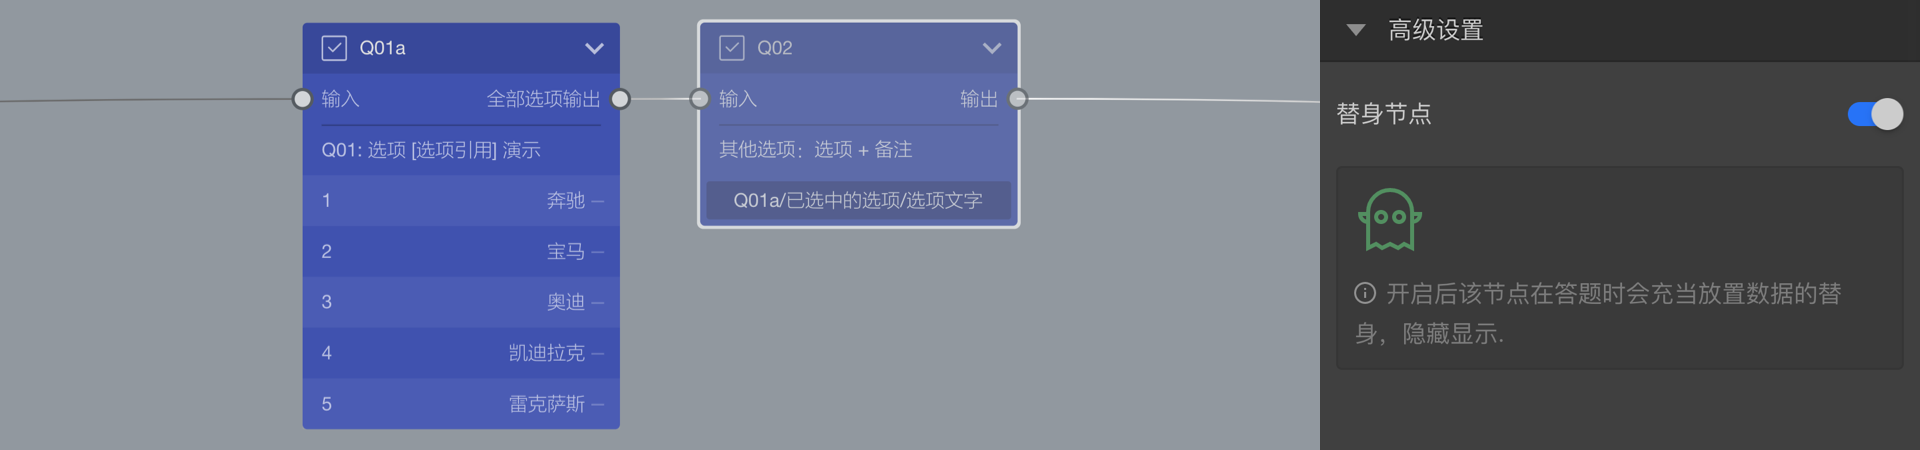
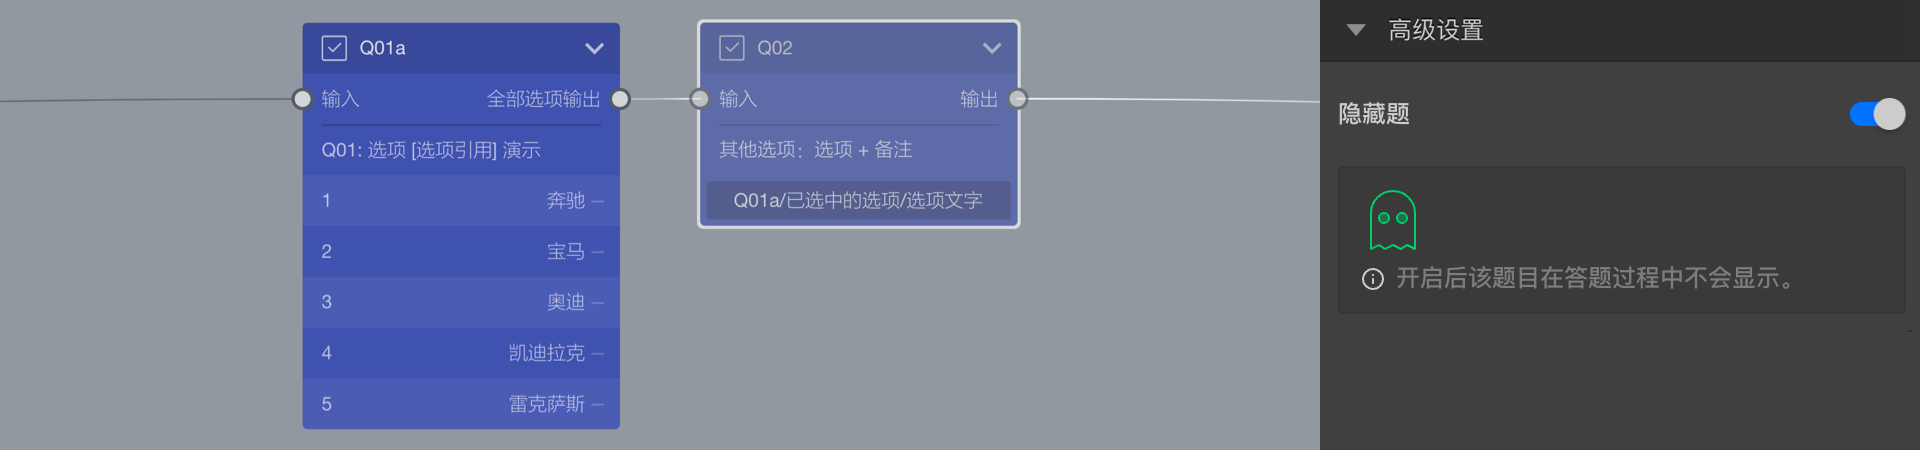
docs: rename 替身节点 => 隐藏题 and update related image

diff --git a/doc/zh-cn/15advancedOptionSetting/02substitute.md b/doc/zh-cn/15advancedOptionSetting/02substitute.md
@@ -1,7 +1,7 @@
 ---
   index: 2
-  tags: [替身节点, 高级选项设定]
-  summary: 替身节点作为一个数据容器使用，被访者看不到设为替身的题目，数据节点也可以实现替身节点的功能，并且功能更为强大。
+  tags: [隐藏题, 高级选项设定]
+  summary: 隐藏题作为一个数据容器使用，被访者看不到设为替身的题目，数据节点也可以实现隐藏题的功能，并且功能更为强大。
 
 
 ---
@@ -11,12 +11,12 @@
 
 
 
-# 替身节点
+# 隐藏题
 
-==替身节点==功能只针对题型节点有效，也就是说只能把某一道题目设置成替身节点。
+==隐藏题==功能只针对题型节点有效，也就是说只能把某一道题目设置成隐藏题。
 
 <img src='./assets/02substitute/advance.png'>
 
-开启==替身节点==模式后，该节点只用于承载数据而不会被展示给被访者，其所有属性可以通过[变量](../16variable/01concept.md)使用。
+开启==隐藏题==模式后，该节点只用于承载数据而不会被展示给被访者，其所有属性可以通过[变量](../16variable/01concept.md)使用。
 
-开启==替身节点==后，画布上，该节点会以半透明形式显示，与其他节点明显区分。
+开启==隐藏题==后，画布上，该节点会以半透明形式显示，与其他节点明显区分。

diff --git a/doc/zh-cn/25tutor/06addDisplayLogic.md b/doc/zh-cn/25tutor/06addDisplayLogic.md
@@ -1,7 +1,7 @@
 ---
   index: 6
   tags: [学习案例,教学,sample,tutor,]
-  summary: 设定显示条件；设定自动选中；开启替身节点；
+  summary: 设定显示条件；设定自动选中；开启隐藏题；
 ---
 
 
@@ -15,7 +15,7 @@
 
 + 设定显示条件；
 + 设定自动选中；
-+ 开启替身节点；
++ 开启隐藏题；
 
 ## 1. 合并问卷题目
 
@@ -114,6 +114,6 @@
 
 完整预览后，进入QKeyMan时，对应选项已经自动勾选了。
 
-## 4. 开启替身节点隐藏题目并保留自动选中
+## 4. 开启隐藏题隐藏题目并保留自动选中
 
-按上面的步骤完成设定后，我们看到虽然QKeyMan会自动选中，但是被访者在QKeyMan题中依然可以更改选择项。如果我们不希望让被访者看到这道题目，从而无法更改选择项，只需要在QKeyMan的==设置==里开启==替身节点==功能，把这个节点设定为==替身节点==后，这道题目就不会展示给被访者了。
+按上面的步骤完成设定后，我们看到虽然QKeyMan会自动选中，但是被访者在QKeyMan题中依然可以更改选择项。如果我们不希望让被访者看到这道题目，从而无法更改选择项，只需要在QKeyMan的==设置==里开启==隐藏题==功能，把这个节点设定为==隐藏题==后，这道题目就不会展示给被访者了。

diff --git a/doc/zh-cn/11nodeSettings/04optionAdvancedSetting/04autoAssignment.md b/doc/zh-cn/11nodeSettings/04optionAdvancedSetting/04autoAssignment.md
@@ -27,10 +27,10 @@
 
 ## 数据埋点
 
-在问卷设计中，自动赋值功能常用于==数据埋点==，常见是一个填空题，为其选项设置自动赋值的内容，一般情况下这个内容是个变量，变量的内容是在之前题目的回复内容上结合某些算法计算后得出。随后，设置为[替身节点](../../15advancedOptionSetting/02substitute.md)模式，这样就完成了数据埋点。
+在问卷设计中，自动赋值功能常用于==数据埋点==，常见是一个填空题，为其选项设置自动赋值的内容，一般情况下这个内容是个变量，变量的内容是在之前题目的回复内容上结合某些算法计算后得出。随后，设置为[隐藏题](../../15advancedOptionSetting/02substitute.md)模式，这样就完成了数据埋点。
 
 答题过程中该题不会显示，但是它的选项会被自动赋值，并且当作答案提交。数据埋点有多种灵活的运用，比如对数据进行标签化处理，埋点后的数据在分析时候更为便捷。
 
 > ==数据埋点==过程中被自动赋值的内容，在后续问题题目中也可以通过变量被继续使用。
 
-> 自动赋值经常和隐藏题一起使用
+> 自动赋值经常和[隐藏题](../../15advancedOptionSetting/02substitute.md)一起使用

diff --git a/doc/zh-cn/10nodes/toolsNodes/08data.md b/doc/zh-cn/10nodes/toolsNodes/08data.md
@@ -1,6 +1,6 @@
 ---
   index: 8
-  tags: [数据节点, 隐式变量, 替身节点, 映射属性, 工具节点]
+  tags: [数据节点, 隐式变量, 隐藏题, 映射属性, 工具节点]
   summary: 数据节点只用于承载数据，象一个盒子一样聚合不同涞源的数据，便于后续数据引用。
 
 
@@ -25,7 +25,7 @@
 
 ## 相似功能
 
-开启[替身节点](../../15advancedOptionSetting/02substitute.md)功能和[映射属性](../../11nodeSettings/04optionAdvancedSetting/05propertyMap.md)功能的题目节点也可以达到和数据节点类似的功能。
+开启[隐藏题](../../15advancedOptionSetting/02substitute.md)功能和[映射属性](../../11nodeSettings/04optionAdvancedSetting/05propertyMap.md)功能的题目节点也可以达到和数据节点类似的功能。
 
 > 不同题型或功能节点共有的通用设置在[通用设置](../../11nodeSettings/concept.md)中有完整说明。
 

diff --git a/doc/zh-cn/11nodeSettings/04optionAdvancedSetting/03selectedCondition.md b/doc/zh-cn/11nodeSettings/04optionAdvancedSetting/03selectedCondition.md
@@ -41,4 +41,4 @@
 
 如果把Q02设置为隐藏题，则Q02不会显示，相当于系统根据选项选中设置，自动勾选后指定选项后，不会让用户更改。
 
-> 自动选中经常和隐藏题一起使用
+> 自动选中经常和[隐藏题]((../../15advancedOptionSetting/02substitute.md))一起使用
